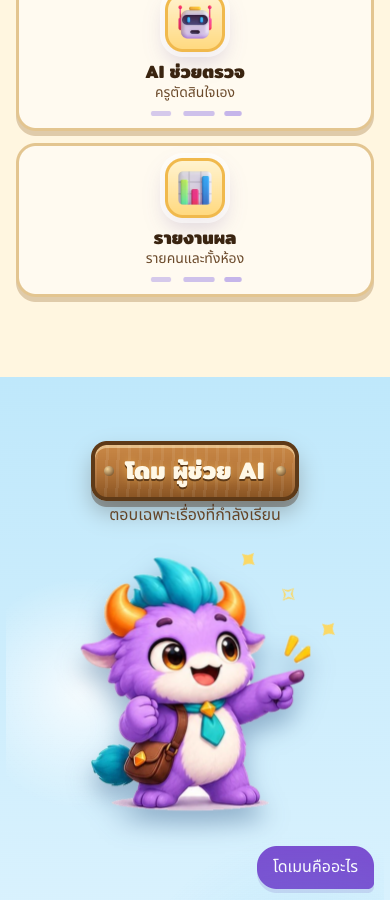
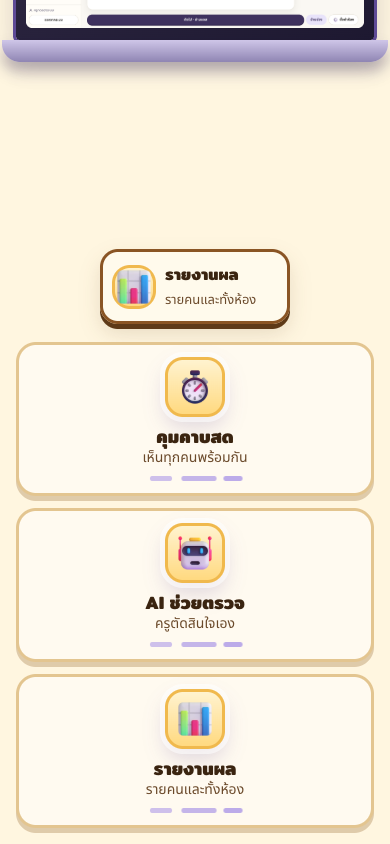
fix(landing): tour two-column pin, laptop callouts outside screen

diff --git a/components/landing/landing.css b/components/landing/landing.css
@@ -345,8 +345,11 @@ body:has(.ld) { height: auto; min-height: 100dvh; overflow: visible; overscroll-
 
 /* ---------- Scroll stories v3 ---------- */
 .ld-tour-scroll { position: relative; min-height: 520vh; }
-.ld-tour-sticky { position: sticky; top: 0; min-height: 100dvh; display: grid; align-items: center; }
-.ld-tour { position: relative; display: grid; grid-template-columns: minmax(260px, .9fr) minmax(360px, 1.1fr); gap: clamp(28px, 5vw, 72px); align-items: center; width: 100%; min-height: min(760px, 84dvh); }
+.ld-tour-sticky { position: sticky; top: 0; min-height: 100dvh; display: flex; flex-direction: column; justify-content: center; gap: 12px; padding: 28px 0; box-sizing: border-box; }
+.ld-tour-head { flex: none; text-align: center; }
+.ld-tour-head .ld-sign { margin: 0; }
+.ld-tour-head .ld-sec-sub { margin: 4px 0 0; }
+.ld-tour { position: relative; display: grid; grid-template-columns: minmax(260px, .9fr) minmax(360px, 1.1fr); gap: clamp(28px, 5vw, 72px); align-items: center; width: 100%; min-height: 0; height: min(680px, calc(100dvh - 150px)); }
 .ld-tour > .ld-phone-wrap { justify-self: center; }
 .ld-tour-dome { position: absolute; z-index: 4; left: 36%; bottom: 7%; width: clamp(104px, 13vw, 168px); pointer-events: none; filter: drop-shadow(0 12px 7px rgba(80,50,10,.25)); }
 .ld-tour-dome .ld-bubble { top: auto; bottom: 100%; right: -12px; left: auto; width: max-content; max-width: 170px; white-space: normal; margin-bottom: 8px; font-size: 14px; }
@@ -362,22 +365,27 @@ body:has(.ld) { height: auto; min-height: 100dvh; overflow: visible; overscroll-
 .ld-teacher-scene { position: relative; display: grid; place-items: center; min-height: 430px; }
 .ld-laptop { position: relative; width: min(100%, 720px); margin: 0 auto; transform-style: preserve-3d; }
 .ld-laptop-lid { position: relative; z-index: 2; transform-origin: 50% 100%; transform-style: preserve-3d; backface-visibility: hidden; }
+.ld-laptop-closed { position: absolute; z-index: 4; left: 5%; right: 5%; bottom: 20px; height: 220px; display: grid; place-items: center; border-radius: 16px 16px 8px 8px; background: linear-gradient(145deg, #bcaee3, #7666a7); box-shadow: inset 0 0 0 3px rgba(64,45,115,.45), 0 18px 28px rgba(30,20,70,.2); transform: perspective(800px) rotateX(64deg); transform-origin: 50% 100%; color: rgba(255,255,255,.82); font-family: var(--font-noto-sans-thai), sans-serif; font-size: 15px; font-weight: 800; letter-spacing: .16em; text-align: center; }
 .ld-laptop-screen { border-radius: 14px 14px 4px 4px; padding: 10px 10px 12px; background: linear-gradient(160deg, #3a3350, #1d1830); box-shadow: 0 0 0 3px #5e4a96, 0 18px 28px rgba(30,20,70,.2); }
 .ld-laptop-screen img { width: 100%; border-radius: 6px; }
 .ld-laptop-base { position: relative; z-index: 3; height: 22px; margin: 0 -4%; border-radius: 0 0 18px 18px; background: linear-gradient(180deg, #cfc6e8, #8f85b3); box-shadow: 0 10px 14px rgba(30,20,70,.3); transform: translateZ(2px); }
 .ld-teacher-caption { position: absolute; inset: 0; pointer-events: none; }
-.ld-teacher-callout { position: absolute; display: flex; align-items: center; gap: 9px; min-width: 190px; padding: 9px 13px 9px 9px; border: 3px solid var(--ld-wood-2); border-radius: 18px; background: rgba(255,250,237,.96); box-shadow: 0 5px 0 var(--ld-wood-3), 0 10px 20px rgba(90,50,10,.14); transition: opacity .25s ease; }
+.ld-teacher-callout { position: absolute; display: flex; align-items: center; gap: 9px; min-width: 190px; padding: 9px 13px 9px 9px; border: 3px solid var(--ld-wood-2); border-radius: 18px; background: rgba(255,250,237,.98); box-shadow: 0 5px 0 var(--ld-wood-3), 0 10px 20px rgba(90,50,10,.14); transition: opacity .25s ease, transform .25s ease; }
 .ld-teacher-callout .ld-card-ico { width: 44px; height: 44px; flex: none; }
 .ld-teacher-callout b, .ld-teacher-callout small { display: block; }
 .ld-teacher-callout b { font-family: var(--font-display-thai), sans-serif; font-size: 17px; }
 .ld-teacher-callout small { color: var(--ld-ink-2); font-size: 13px; }
-.ld-callout-line { position: absolute; width: 74px; height: 3px; background: var(--ld-purple); }
-.ld-teacher-callout--1 { left: 0; top: 16%; }
-.ld-teacher-callout--1 .ld-callout-line { right: -74px; transform: rotate(12deg); transform-origin: left; }
-.ld-teacher-callout--2 { right: 0; top: 39%; }
-.ld-teacher-callout--2 .ld-callout-line { left: -74px; transform: rotate(-12deg); transform-origin: right; }
-.ld-teacher-callout--3 { left: 4%; bottom: 8%; }
-.ld-teacher-callout--3 .ld-callout-line { right: -74px; transform: rotate(-18deg); transform-origin: left; }
+.ld-callout-line { position: absolute; width: clamp(34px, 6vw, 86px); height: 2px; background: var(--ld-purple); }
+.ld-callout-line::after { content: ''; position: absolute; width: 7px; height: 7px; border-radius: 50%; background: var(--ld-purple); top: -2.5px; }
+.ld-teacher-callout--1 { left: max(0px, calc(50% - 510px)); top: 17%; }
+.ld-teacher-callout--1 .ld-callout-line { right: calc(clamp(34px, 6vw, 86px) * -1); transform: rotate(12deg); transform-origin: left; }
+.ld-teacher-callout--1 .ld-callout-line::after { right: 0; }
+.ld-teacher-callout--2 { right: max(0px, calc(50% - 510px)); top: 38%; }
+.ld-teacher-callout--2 .ld-callout-line { left: calc(clamp(34px, 6vw, 86px) * -1); transform: rotate(-12deg); transform-origin: right; }
+.ld-teacher-callout--2 .ld-callout-line::after { left: 0; }
+.ld-teacher-callout--3 { left: max(0px, calc(50% - 480px)); bottom: 7%; }
+.ld-teacher-callout--3 .ld-callout-line { right: calc(clamp(34px, 6vw, 86px) * -1); transform: rotate(-18deg); transform-origin: left; }
+.ld-teacher-callout--3 .ld-callout-line::after { right: 0; }
 .ld-teacher-sticky .ld-feats { width: min(100%, 920px); margin: 18px auto 0; }
 
 @media (max-width: 899px) {
@@ -391,7 +399,7 @@ body:has(.ld) { height: auto; min-height: 100dvh; overflow: visible; overscroll-
   .ld-teacher-scene { min-height: 0; padding: 16px 0 0; display: block; }
   .ld-teacher-scene .ld-laptop { width: min(100%, 620px); }
   .ld-teacher-caption { position: static; display: grid; gap: 10px; margin: 18px auto 0; max-width: 520px; }
-  .ld-teacher-callout { position: relative; inset: auto !important; opacity: 1 !important; transform: none !important; }
+  .ld-teacher-callout { position: relative; inset: auto !important; transform: none !important; }
   .ld-callout-line { display: none; }
   .ld-teacher-sticky .ld-feats { margin-top: 18px; }
 }
@@ -408,7 +416,7 @@ body:has(.ld) { height: auto; min-height: 100dvh; overflow: visible; overscroll-
 @media (prefers-reduced-motion: reduce) {
   .ld-tour-scroll, .ld-teacher-scroll { min-height: 0; }
   .ld-tour-sticky, .ld-teacher-sticky { position: static; }
-  .ld-teacher-callout { opacity: 1 !important; transform: none !important; }
+  .ld-teacher-callout { transform: none !important; }
 }
 
 /* ---------- วิธีเล่น v2: ทางไม้ริมเกาะ ---------- */

diff --git a/components/landing/sections.tsx b/components/landing/sections.tsx
@@ -149,7 +149,6 @@ export function TourSection() {
   return (
     <section className="ld-sec ld-sec--sea" id="tour" aria-label="ตัวอย่างหน้าจอ">
       <div className="ld-wrap">
-        <Head title="ลองดูหน้าจอจริง" sub="แตะขั้นตอนเพื่อดูทีละหน้า" />
         <Reveal>
           <PhoneTour />
         </Reveal>
@@ -167,10 +166,12 @@ const TEACH = [
 export function TeacherSection() {
   const [caption, setCaption] = useState(0)
   const [isDesktop, setIsDesktop] = useState(false)
+  const [sequenceDone, setSequenceDone] = useState(false)
   const teacherRef = useRef<HTMLDivElement>(null)
   const reduce = useReducedMotion()
   const { scrollYProgress } = useScroll({ target: teacherRef, offset: ['start start', 'end end'] })
   const open = useTransform(scrollYProgress, [0, 0.28, 0.54], [-86, -86, 0])
+  const closedOpacity = useTransform(open, [-86, -48, -16], [1, 0, 0])
   const screenOpacity = useTransform(open, [-86, -18, 0], [0, 0.72, 1])
   const screenLift = useTransform(scrollYProgress, [0.28, 0.5], [36, 0])
 
@@ -180,6 +181,20 @@ export function TeacherSection() {
     sync()
     media.addEventListener('change', sync)
     return () => media.removeEventListener('change', sync)
+  }, [])
+
+  useEffect(() => {
+    const syncSequence = () => {
+      if (!teacherRef.current) return
+      setSequenceDone(teacherRef.current.getBoundingClientRect().bottom <= window.innerHeight + 12)
+    }
+    syncSequence()
+    window.addEventListener('scroll', syncSequence, { passive: true })
+    window.addEventListener('resize', syncSequence)
+    return () => {
+      window.removeEventListener('scroll', syncSequence)
+      window.removeEventListener('resize', syncSequence)
+    }
   }, [])
 
   useMotionValueEvent(scrollYProgress, 'change', (value) => {
@@ -198,16 +213,17 @@ export function TeacherSection() {
                 <motion.div className="ld-laptop-lid" style={!isDesktop || reduce ? undefined : { rotateX: open }}>
                   <div className="ld-laptop-screen">
                     <motion.div style={!isDesktop || reduce ? undefined : { opacity: screenOpacity, y: screenLift }}>
-                      <Pic src="/landing/teacher-v2.png" alt="แผงควบคุมครูเวอร์ชันใหม่" width={1440} height={900} sizes="560px" />
+                      <Pic src="/manual/teacher-captures/live.png" alt="หน้าคุมคาบสด แสดงรายชื่อนักเรียนและสถานะภารกิจ" width={1440} height={900} sizes="560px" />
                     </motion.div>
                   </div>
                 </motion.div>
+                  <motion.div className="ld-laptop-closed" aria-hidden style={!isDesktop || reduce ? undefined : { opacity: closedOpacity }}><span>CEO<br />DOMAIN QUEST</span></motion.div>
                 <div className="ld-laptop-base" />
               </motion.div>
             </Reveal>
             <div className="ld-teacher-caption" aria-live="polite">
               {TEACH.map((t, i) => (
-                <motion.div key={t.title} className={`ld-teacher-callout ld-teacher-callout--${i + 1}`} animate={{ opacity: reduce || i === caption ? 1 : 0.28, y: reduce || i === caption ? 0 : 8 }}>
+              <motion.div key={t.title} className={`ld-teacher-callout ld-teacher-callout--${i + 1}`} animate={{ opacity: reduce || i === caption ? 1 : 0, y: reduce || i === caption ? 0 : 8 }}>
                   <span className="ld-callout-line" aria-hidden />
                   <span className="ld-card-ico">{icon(t.icon, 30)}</span>
                   <span><b>{t.title}</b><small>{t.note}</small></span>
@@ -215,9 +231,9 @@ export function TeacherSection() {
               ))}
             </div>
           </div>
-          <div className="ld-feats">
+          <motion.div className="ld-feats" style={!isDesktop || reduce ? undefined : { opacity: sequenceDone ? 1 : 0, pointerEvents: sequenceDone ? 'auto' : 'none' }}>
             {TEACH.map((t) => <div key={t.title} className="ld-card"><span className="ld-card-ico">{icon(t.icon)}</span><div><h3>{t.title}</h3><p>{t.note}</p><span className="ld-mini-preview" aria-hidden><i /><i /><i /></span></div></div>)}
-          </div>
+          </motion.div>
         </div>
       </div>
     </section>

diff --git a/components/landing/phone-tour.tsx b/components/landing/phone-tour.tsx
@@ -28,6 +28,10 @@ export function PhoneTour() {
   return (
     <div className="ld-tour-scroll" ref={box}>
       <div className="ld-tour-sticky">
+        <div className="ld-tour-head">
+          <h2 className="ld-sign">ลองดูหน้าจอจริง</h2>
+          <p className="ld-sec-sub">แตะขั้นตอนเพื่อดูทีละหน้า</p>
+        </div>
         <div className="ld-tour">
           <div className="ld-phone-wrap">
             <div className="ld-phone">
@@ -61,37 +65,36 @@ export function PhoneTour() {
             </AnimatePresence>
             <Pic className="ld-dome" src="/dome/mascot/dome-cheer.webp" alt="" width={448} height={532} />
           </div>
-        </div>
-
-        <div className="ld-step-list" role="group" aria-label="ขั้นตอนการเล่น">
-        {STEPS.map((s, i) => (
-          <motion.button
-            key={s.title}
-            type="button"
-            className="ld-step-btn"
-            aria-current={i === active}
-            onClick={() => {
-              setActive(i)
-              if (box.current && window.matchMedia('(min-width: 900px)').matches) {
-                const top = box.current.getBoundingClientRect().top + window.scrollY + (box.current.offsetHeight - window.innerHeight) * (i / (STEPS.length - 1))
-                window.scrollTo({ top, behavior: 'smooth' })
-              }
-            }}
-            onFocus={() => setActive(i)}
-            onMouseEnter={() => setActive(i)}
-            onViewportEnter={() => {
-              if (window.matchMedia('(max-width: 899px)').matches) setActive(i)
-            }}
-            viewport={{ amount: 0.65 }}
-            whileHover={{ x: 4 }}
-            whileTap={{ scale: 0.97 }}
-          >
-            <Pic src={`/icons/3d/${s.icon}.webp`} alt="" width={30} height={30} />
-            {s.title}
-            <small>{s.note}</small>
-            {i === active && <span className="ld-progress" />}
-          </motion.button>
-        ))}
+          <div className="ld-step-list" role="group" aria-label="ขั้นตอนการเล่น">
+            {STEPS.map((s, i) => (
+              <motion.button
+                key={s.title}
+                type="button"
+                className="ld-step-btn"
+                aria-current={i === active}
+                onClick={() => {
+                  setActive(i)
+                  if (box.current && window.matchMedia('(min-width: 900px)').matches) {
+                    const top = box.current.getBoundingClientRect().top + window.scrollY + (box.current.offsetHeight - window.innerHeight) * (i / (STEPS.length - 1))
+                    window.scrollTo({ top, behavior: 'smooth' })
+                  }
+                }}
+                onFocus={() => setActive(i)}
+                onMouseEnter={() => setActive(i)}
+                onViewportEnter={() => {
+                  if (window.matchMedia('(max-width: 899px)').matches) setActive(i)
+                }}
+                viewport={{ amount: 0.65 }}
+                whileHover={{ x: 4 }}
+                whileTap={{ scale: 0.97 }}
+              >
+                <Pic src={`/icons/3d/${s.icon}.webp`} alt="" width={30} height={30} />
+                {s.title}
+                <small>{s.note}</small>
+                {i === active && <span className="ld-progress" />}
+              </motion.button>
+            ))}
+          </div>
         </div>
       </div>
     </div>
